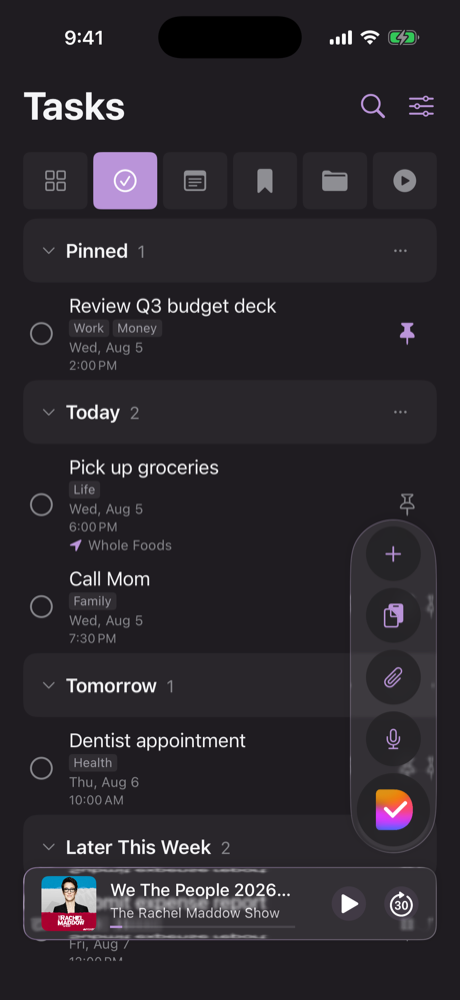
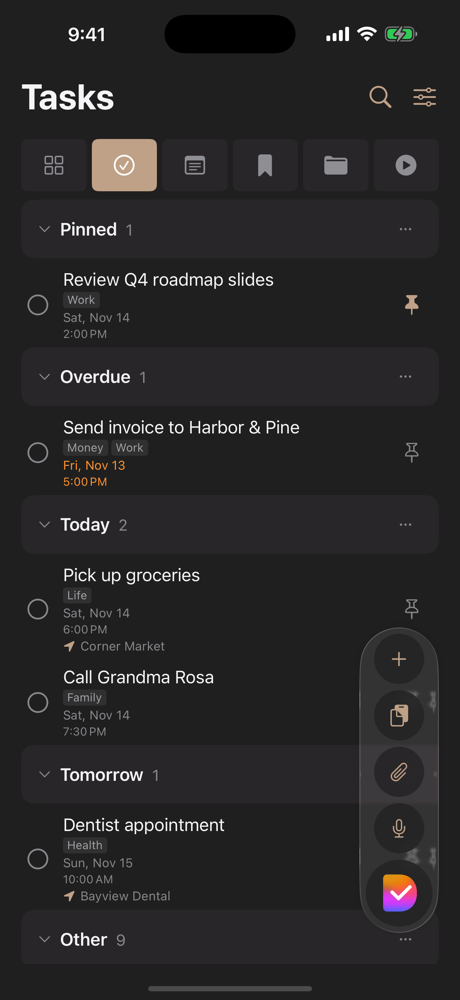
Tell the full story: capture, share, collaborate, print
- Home page: three new rows (Share it, Work on it together, Print it in
  the right order), Siri in the voice row, the hero lead covers the whole
  story, and the sharing/privacy cards and band now match the privacy
  policy (shared and published content is the exception, not "never").
- Screenshots now use fictional demo data (tasks, notes, links, search),
  plus new share, collaborate and print shots.
- Privacy: collaborators can see and edit (there's no view-only share).
- APP_STORE_COPY.md: the 1.6 listing as uploaded.

diff --git a/index.html b/index.html
@@ -256,7 +256,7 @@
     <img class="appicon" src="dailydo.png" alt="DailyDo app icon">
     <div class="kicker reveal d1">Capture first, organize never</div>
     <h1 class="reveal d2">Everything in your head,<br><span class="shine">in one place.</span></h1>
-    <p class="lead reveal d3">Type it, paste it, say it, or share it — DailyDo instantly turns it into the right thing: a task with a reminder, a note, a bookmark, or a podcast to play. Synced privately across iPhone, iPad, and Mac.</p>
+    <p class="lead reveal d3">Type it, paste it, say it, or share it — DailyDo instantly turns it into the right thing: a task with a reminder, a note, a bookmark, or a podcast to play. Then send it, work on it together, or print it, in the right order. Synced privately across iPhone, iPad, and Mac.</p>
   </header>
 
   <div class="cta-row reveal d4">
@@ -317,6 +317,7 @@
       <ul class="bul">
         <li><svg viewBox="0 0 24 24"><path d="m5 13 4 4L19 7"/></svg>Live transcription with automatic titles</li>
         <li><svg viewBox="0 0 24 24"><path d="m5 13 4 4L19 7"/></svg>Voice memos keep the audio and the text, side by side</li>
+        <li><svg viewBox="0 0 24 24"><path d="m5 13 4 4L19 7"/></svg>Or ask Siri: “Add a task in DailyDo,” “What’s due today in DailyDo?”</li>
       </ul>
     </div>
     <div class="vphone" aria-label="Voice dictation demo">
@@ -389,7 +390,7 @@
         <li><svg viewBox="0 0 24 24"><path d="m5 13 4 4L19 7"/></svg>Smart paste detects links, dates, and phone numbers</li>
       </ul>
     </div>
-    <div class="phone"><img data-light="shots/links-light.png" data-dark="shots/links-light.png" src="shots/links-light.png" alt="DailyDo bookmarks" loading="lazy"></div>
+    <div class="phone"><img data-light="shots/links-light.png" data-dark="shots/links-dark.png" src="shots/links-dark.png" alt="DailyDo bookmarks" loading="lazy"></div>
   </section>
 
   <section class="feat">
@@ -401,8 +402,49 @@
         <li><svg viewBox="0 0 24 24"><path d="m5 13 4 4L19 7"/></svg>Everything indexed the moment it's captured</li>
       </ul>
     </div>
-    <div class="phone"><img data-light="shots/search-dark.png" data-dark="shots/search-dark.png" src="shots/search-dark.png" alt="Search and tag filtering in DailyDo" loading="lazy"></div>
+    <div class="phone"><img data-light="shots/search-light.png" data-dark="shots/search-dark.png" src="shots/search-dark.png" alt="Search and tag filtering in DailyDo" loading="lazy"></div>
   </section>
+
+  <!-- ============ the rest of the story: share, collaborate, print ============ -->
+  <section class="feat flip" id="share">
+    <div class="copy">
+      <div class="demo-label" style="text-align:left; margin-bottom:10px">Share it</div>
+      <h2>Send it your way.</h2>
+      <p>Pick a few tasks and send them as a link other DailyDo users tap to import, as plain text for anyone, or as a web page that opens in any browser, no app needed.</p>
+      <ul class="bul">
+        <li><svg viewBox="0 0 24 24"><path d="m5 13 4 4L19 7"/></svg>Publish notes, checklists, photos and files as a page at getdailydo.com</li>
+        <li><svg viewBox="0 0 24 24"><path d="m5 13 4 4L19 7"/></svg>Pages expire on their own, and you can take one down any time</li>
+      </ul>
+    </div>
+    <div class="phone"><img src="shots/share-dark.png" alt="Sharing tasks as a link, text, or web page in DailyDo" loading="lazy"></div>
+  </section>
+
+  <section class="feat" id="collaborate">
+    <div class="copy">
+      <div class="demo-label" style="text-align:left; margin-bottom:10px">Collaborate</div>
+      <h2>Work on it together.</h2>
+      <p>Share a packing list, a shopping run, or a plan with the people in it. Everyone sees the same item, checks things off, and sees who else is on it.</p>
+      <ul class="bul">
+        <li><svg viewBox="0 0 24 24"><path d="m5 13 4 4L19 7"/></svg>Shared through iCloud with only the people you invite</li>
+        <li><svg viewBox="0 0 24 24"><path d="m5 13 4 4L19 7"/></svg>Everyone you invite can edit, and you can stop sharing whenever you like</li>
+      </ul>
+    </div>
+    <div class="phone"><img src="shots/collaborate-dark.png" alt="A shared packing list with two collaborators in DailyDo" loading="lazy"></div>
+  </section>
+
+  <section class="feat flip" id="print">
+    <div class="copy">
+      <div class="demo-label" style="text-align:left; margin-bottom:10px">Print it</div>
+      <h2>On paper, in the right order.</h2>
+      <p>Print any list straight from its menu, every item, as many pages as it takes. Choose a calendar with a column for each day, or a list with dates, tags and notes.</p>
+      <ul class="bul">
+        <li><svg viewBox="0 0 24 24"><path d="m5 13 4 4L19 7"/></svg>Items without a date get their own page, so nothing is left off</li>
+        <li><svg viewBox="0 0 24 24"><path d="m5 13 4 4L19 7"/></svg>Uncheck anything you don’t need; on iPhone, iPad and Mac</li>
+      </ul>
+    </div>
+    <div class="phone"><img src="shots/print-dark.png" alt="Printing a task list as a calendar or a list in DailyDo" loading="lazy"></div>
+  </section>
+
 
   <!-- ============ feature cards ============ -->
   <section class="features">
@@ -428,19 +470,19 @@
     </div>
     <div class="card">
       <div class="dot"><svg viewBox="0 0 24 24"><path d="M9 12.5 11 15l4.5-5.5"/><rect x="3.5" y="4" width="17" height="16" rx="4"/></svg></div>
-      <h3>Checklists &amp; sharing</h3>
-      <p>Break notes and tasks into checklists, and share a live link so someone else can follow along.</p>
+      <h3>Checklists, together</h3>
+      <p>Break notes and tasks into checklists, then share the item so everyone on it can check things off.</p>
     </div>
     <div class="card">
       <div class="dot"><svg viewBox="0 0 24 24"><path d="M12 21c-4.5-3.5-8-6.6-8-10.5A5.5 5.5 0 0 1 12 6a5.5 5.5 0 0 1 8 4.5c0 3.9-3.5 7-8 10.5z"/></svg></div>
       <h3>Private by architecture</h3>
-      <p>No account. No analytics. Your data lives on your devices and in your own private iCloud — we couldn't read it if we wanted to.</p>
+      <p>No account. No analytics. Your data lives on your devices and in your own private iCloud, and only what you choose to share or publish ever leaves it.</p>
     </div>
   </section>
 
   <section class="privacy-band">
-    <h2>Your data never meets our servers.</h2>
-    <p>The DailyDo app has no sign-up, no analytics or tracking, and no servers of its own. Everything you capture is stored on-device and synced through your personal Apple iCloud account. If you buy Pro, Apple handles the payment and RevenueCat keeps an anonymous receipt. Read the <a href="privacy.html">privacy policy</a>: it's short, because there's not much to disclose. (This website counts visits with cookieless analytics; the app counts nothing.)</p>
+    <h2>Private until you share it.</h2>
+    <p>The DailyDo app has no sign-up and no analytics or tracking. Everything you capture is stored on-device and synced through your personal Apple iCloud account. Nothing reaches anyone else unless you send it, invite someone to collaborate (shared through iCloud with just them), or publish a web page. If you buy Pro, Apple handles the payment and RevenueCat keeps an anonymous receipt. The <a href="privacy.html">privacy policy</a> spells out each case. (This website counts visits with cookieless analytics; the app counts nothing.)</p>
   </section>
 
   <!-- ============ pricing ============ -->

diff --git a/privacy.html b/privacy.html
@@ -44,7 +44,7 @@
   <nav><a href="index.html">← DailyDo</a></nav>
   <div class="kicker">DailyDo</div>
   <h1>Privacy Policy</h1>
-  <p class="muted">Last updated: 11 November 2026</p>
+  <p class="muted">Last updated: 14 November 2026</p>
 
   <p class="lead">DailyDo is built so that your tasks, notes, and documents stay yours. The app has no accounts and no analytics. Your data lives on your devices and, if you use iCloud, in your own private iCloud account. The developer never sees it. The one exception is a page you choose to publish to the web, which is public by design.</p>
 
@@ -118,7 +118,7 @@
   <p>DailyDo shares only when you ask it to, in one of three ways:</p>
   <ul>
     <li><strong>Share as a link or text</strong>: DailyDo packs the content into the link or message itself and hands it to the system share sheet. Nothing is uploaded, and anything you send can't be taken back.</li>
-    <li><strong>Collaborate</strong>: the item is shared through iCloud with the people you invite, who can see it (and edit it, if you allow). Stop sharing at any time.</li>
+    <li><strong>Collaborate</strong>: the item is shared through iCloud with the people you invite, who can see and edit it. Stop sharing at any time.</li>
     <li><strong>Publish as a web page</strong>: a public page anyone with the link can open, as described in <a href="#published-pages">Published pages</a>.</li>
   </ul>
 

diff --git a/APP_STORE_COPY.md b/APP_STORE_COPY.md
@@ -1,4 +1,4 @@
-# DailyDo — App Store Listing (1.3)
+# DailyDo — App Store Listing (1.6)
 
 Paste into App Store Connect → DailyDo (app 6751297766). Fill in **both** the iOS and the macOS
 version pages. Character counts are in brackets.
@@ -18,44 +18,58 @@ Alternates: `One inbox for your whole day` [28] · `Capture first, organize neve
 
 ## Promotional Text (170, editable without a new build)
 
-> Type it, paste it, say it or share it: DailyDo turns it into a task with a reminder, a note, a link or a podcast. Synced privately across iPhone, iPad and Mac. [159]
+`Capture anything, then share it, work on it together with the people in it, or print it as a calendar or a list. Synced privately across iPhone, iPad and Mac.`
 
 ## Description (4000)
+
+iOS (the Mac version drops the alarms line and says "A calendar view of everything that's due." instead of the widgets line):
 
 ```
 Everything in your head, in one place.
 
-DailyDo is the fastest way to get a thought out of your head and into the right place. Type it, paste it, dictate it, or share it from any app, and DailyDo works out what it is: a task with a reminder, a note, a link, a timer, a document, or a podcast to play. No folders to choose, no forms to fill, no account to create.
+Capture anything, share it, work on it together, and print it in the right order. Type it, paste it, say it, or share it from any app, and DailyDo works out what it is: a task with a reminder, a note, a link, a timer, a document, or a podcast to play. No folders to choose, no forms to fill, no account to create.
 
-SMART CAPTURE
+CAPTURE ANYTHING
 • "Pick up prescription tomorrow at 5pm" becomes a task with a reminder.
 • Paste a URL and it becomes a link, titled automatically.
 • Jot a long thought and it becomes a note, with a title written for you on your device.
 • Paste a podcast or RSS feed and you're subscribed.
+• Share into DailyDo from Safari, Photos, Mail or any app, or paste from the clipboard.
+• Dictate, or record voice notes with automatic transcription.
+• Ask Siri: "Add a task in DailyDo", "What's due today in DailyDo?", "Start a timer in DailyDo".
 
-CAPTURE FROM ANYWHERE
-• Share into DailyDo from Safari, Photos, Mail or any app.
-• Smart paste from the clipboard.
-• Voice dictation and voice notes with automatic transcription.
-• Home Screen widgets show what's pinned, overdue and due today.
+SHARE IT
+• Send tasks as a link other DailyDo users tap to import, or as plain text for anyone.
+• Publish notes, checklists, photos and files as a web page that opens in any browser, no app needed. Pages expire on their own, and you can take one down any time.
+
+WORK ON IT TOGETHER
+• Share an item with the people in it: a packing list, a shopping run, a plan.
+• Everyone you invite can edit, check things off, and see who else is on it.
+• Shared through iCloud with only the people you invite. Stop sharing whenever you like.
+
+PRINT IT, IN THE RIGHT ORDER
+• Print any task list straight from its menu, with every item, on as many pages as it takes.
+• As a calendar, with a column for each day, or as a list with dates, tags and notes.
+• Items without a date get their own page, so nothing is left off. Uncheck anything you don't need.
 
 TASKS THAT HOLD THE LINE
 • Reminders with Mark Done and Snooze right from the notification.
 • Alarms that break through Focus for the things you can't miss.
 • Repeating tasks you can complete day by day, with streaks.
-• Postpone to tomorrow or a week out in one tap.
+• A calendar view, and Home Screen widgets for what's pinned, overdue and due today.
 
 MORE THAN A TODO LIST
-• Notes, links and a reading list that builds itself.
+• Notes with checklists, links, and a reading list that builds itself.
 • Podcasts: a built-in player with Up Next, speeds and transcripts.
 • Multi-stage timers for cooking, workouts and focus sessions.
 • Documents: scan with text recognition, snap photos, attach files.
 • Tags with colors, twelve accent colors, light, dark and Night Mode.
 
-PRIVATE BY DESIGN
+PRIVATE UNTIL YOU SHARE IT
 • No account. No sign-up. No ads. No analytics.
 • Your data lives on your device and syncs through your own private iCloud.
 • Smart features run on your device.
+• Nothing reaches anyone else unless you send it, collaborate on it, or publish it.
 
 IPHONE, IPAD AND MAC
 One purchase, everywhere: your items stay in sync across all your devices through iCloud.
@@ -67,28 +81,23 @@ DailyDo is free for up to 50 active items, and completed items never count. Capt
 • Lifetime: $69.99, one-time purchase
 Prices are in USD and vary by country. Subscriptions renew automatically unless cancelled at least 24 hours before the end of the current period; your Apple Account is charged for renewal within 24 hours before the period ends. Manage or cancel any time in Settings → [your name] → Subscriptions. Any unused free-trial time is forfeited when you buy a subscription.
 
-Terms of Use: https://fbmore.github.io/dailydo-app/terms.html
-Privacy Policy: https://fbmore.github.io/dailydo-app/privacy.html
+Terms of Use: https://getdailydo.com/terms.html
+Privacy Policy: https://getdailydo.com/privacy.html
 Apple's Standard EULA: https://www.apple.com/legal/internet-services/itunes/dev/stdeula/
 ```
 
-[2,675]
 
 ## Keywords (100)
 
-`tasks,todo,notes,reminders,capture,checklist,timer,scanner,ocr,voice,memo,podcast,gtd,inbox,planner` [99]
+`tasks,todo,notes,reminders,capture,checklist,share,collaborate,print,calendar,timer,voice,podcast`
 
-(No "DailyDo", no "app", no words already in the name or subtitle.)
-
-## What's New in 1.3
+## What's New in 1.6
 
 ```
-• Widgets now focus on what matters: pinned, overdue and today's tasks.
-• Repeating tasks can be completed day by day, independently.
-• New "Postpone a Week" in task menus; moving a date in Quick Create reschedules the task.
-• Night Mode: red on black, easy on your eyes at night (Settings).
-• DailyDo for Mac, synced with your iPhone and iPad through iCloud.
-• DailyDo Pro: unlimited active items. Free stays free for up to 50.
+• Print any task list from its menu, as a calendar or a list, with every item (including ones with no date) on as many pages as it takes. Uncheck what you don't need.
+• Publish notes, checklists, photos and files as a web page anyone can open, no app needed. Pages expire on their own.
+• Siri: add tasks (with alarms) and notes, ask what's due today, mark tasks done, open items and start timers.
+• Published pages use the accent color you picked in Settings → Appearance.
 ```
 
 ## Categories and rating
@@ -133,19 +142,19 @@ Permissions are requested only when a feature needs them: notifications for remi
 The same app runs on iPhone, iPad and Mac (Mac Catalyst) and syncs through iCloud.
 ```
 
-## Screenshot plan
+## Screenshots (1.6, uploaded)
 
-Sizes: iPhone 6.9" (1320×2868), iPhone 6.5" (1284×2778), iPad 13" (2064×2752), Mac (2880×1800).
-The site's `shots/` folder already has light/dark captures for most of these screens.
+Fictional `-demo` data, made with `scripts/store-screenshots.sh` and `scripts/store-screenshots-mac.sh` in the app repo
+(`-demoScreen print | share | collaborate` open the new sheets). The ordered sets are in the app repo at
+`marketing/screenshots/appstore-1.6/{iphone,ipad,mac}`.
 
-| # | Screen | Caption |
-|---|--------|---------|
-| 1 | Quick Create mid-typing "call the pharmacy tomorrow at 5", chip shows Task | Type it. DailyDo files it. |
-| 2 | Tasks tab: Today, overdue and pinned | Your day, sorted for you |
-| 3 | Share sheet from Safari into DailyDo | Capture from any app |
-| 4 | Notes list with auto titles | Notes that title themselves |
-| 5 | Podcast player with Up Next | Your podcasts, right next to your tasks |
-| 6 | Document scan with recognised text | Scan it, search it |
-| 7 | Accent picker / Night Mode | Make it yours |
-| 8 | iPad + Mac side by side | iPhone, iPad and Mac, privately synced |
-| 9 | Paywall | Free for 50 items. Pro for everything. |
+| # | Screen | Story beat |
+|---|--------|-----------|
+| 1 | Quick Create (iPhone/iPad only) | Capture anything |
+| 2 | Tasks: pinned, overdue, today, tomorrow | Your day, sorted |
+| 3 | Share Tasks: Link / Text / Page | Share it |
+| 4 | Shared packing list with two collaborators | Work on it together |
+| 5 | Print sheet: Calendar / List, every item checked | Print it, in the right order |
+| 6 | Notes | Notes that title themselves |
+| 7 | Links | A reading list that builds itself |
+| 8 | Search "lisbon" across everything | Find anything |
